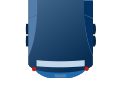
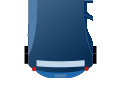
Fixed eth bus depth
made the eth bus to have a visual depth while characters are entering the bus , also removed some unnecessary logs

Changed region(s): [[0.719, 0.03, 0.8182, 0.66], [0.1983, 0.21, 0.2479, 0.66]]

diff --git a/src/components/game-objects/bus.js b/src/components/game-objects/bus.js
@@ -147,14 +147,14 @@ const Bus = new Phaser.Class({
 		this.fillObjects = [this.busMiddle];
 		if(this.scene.config.ticker == "ETH"){
 			this.busFloor = this.scene.add.rectangle(
-				this.scene.side === "right" ? this.x + toRes(53) : this.x - toRes(60),
+				this.scene.side === "right" ? this.x + toRes(48) : this.x - toRes(60),
 				this.y - toRes(100),
-				7,
+				15,
 				toRes(this.busHeight + 90),
 				this.floorColor.color,
 				1
 			);
-			this.busFloor.setVisible(false);
+			this.busFloor.setVisible(true);
 		}else{
 			this.busFloor = this.scene.add.rectangle(
 				this.scene.side === "right" ? this.x + toRes(53) : this.x - toRes(60),

diff --git a/src/components/streets/ethereum.js b/src/components/streets/ethereum.js
@@ -459,7 +459,6 @@ export default class ETHStreet extends Street {
 				//add to line as person
 				this.newPerson(this.lineManager[entry.txData.tx]);
 
-				console.log(this.lineManager[entry.txData.tx]);
 			}
 		}
 
